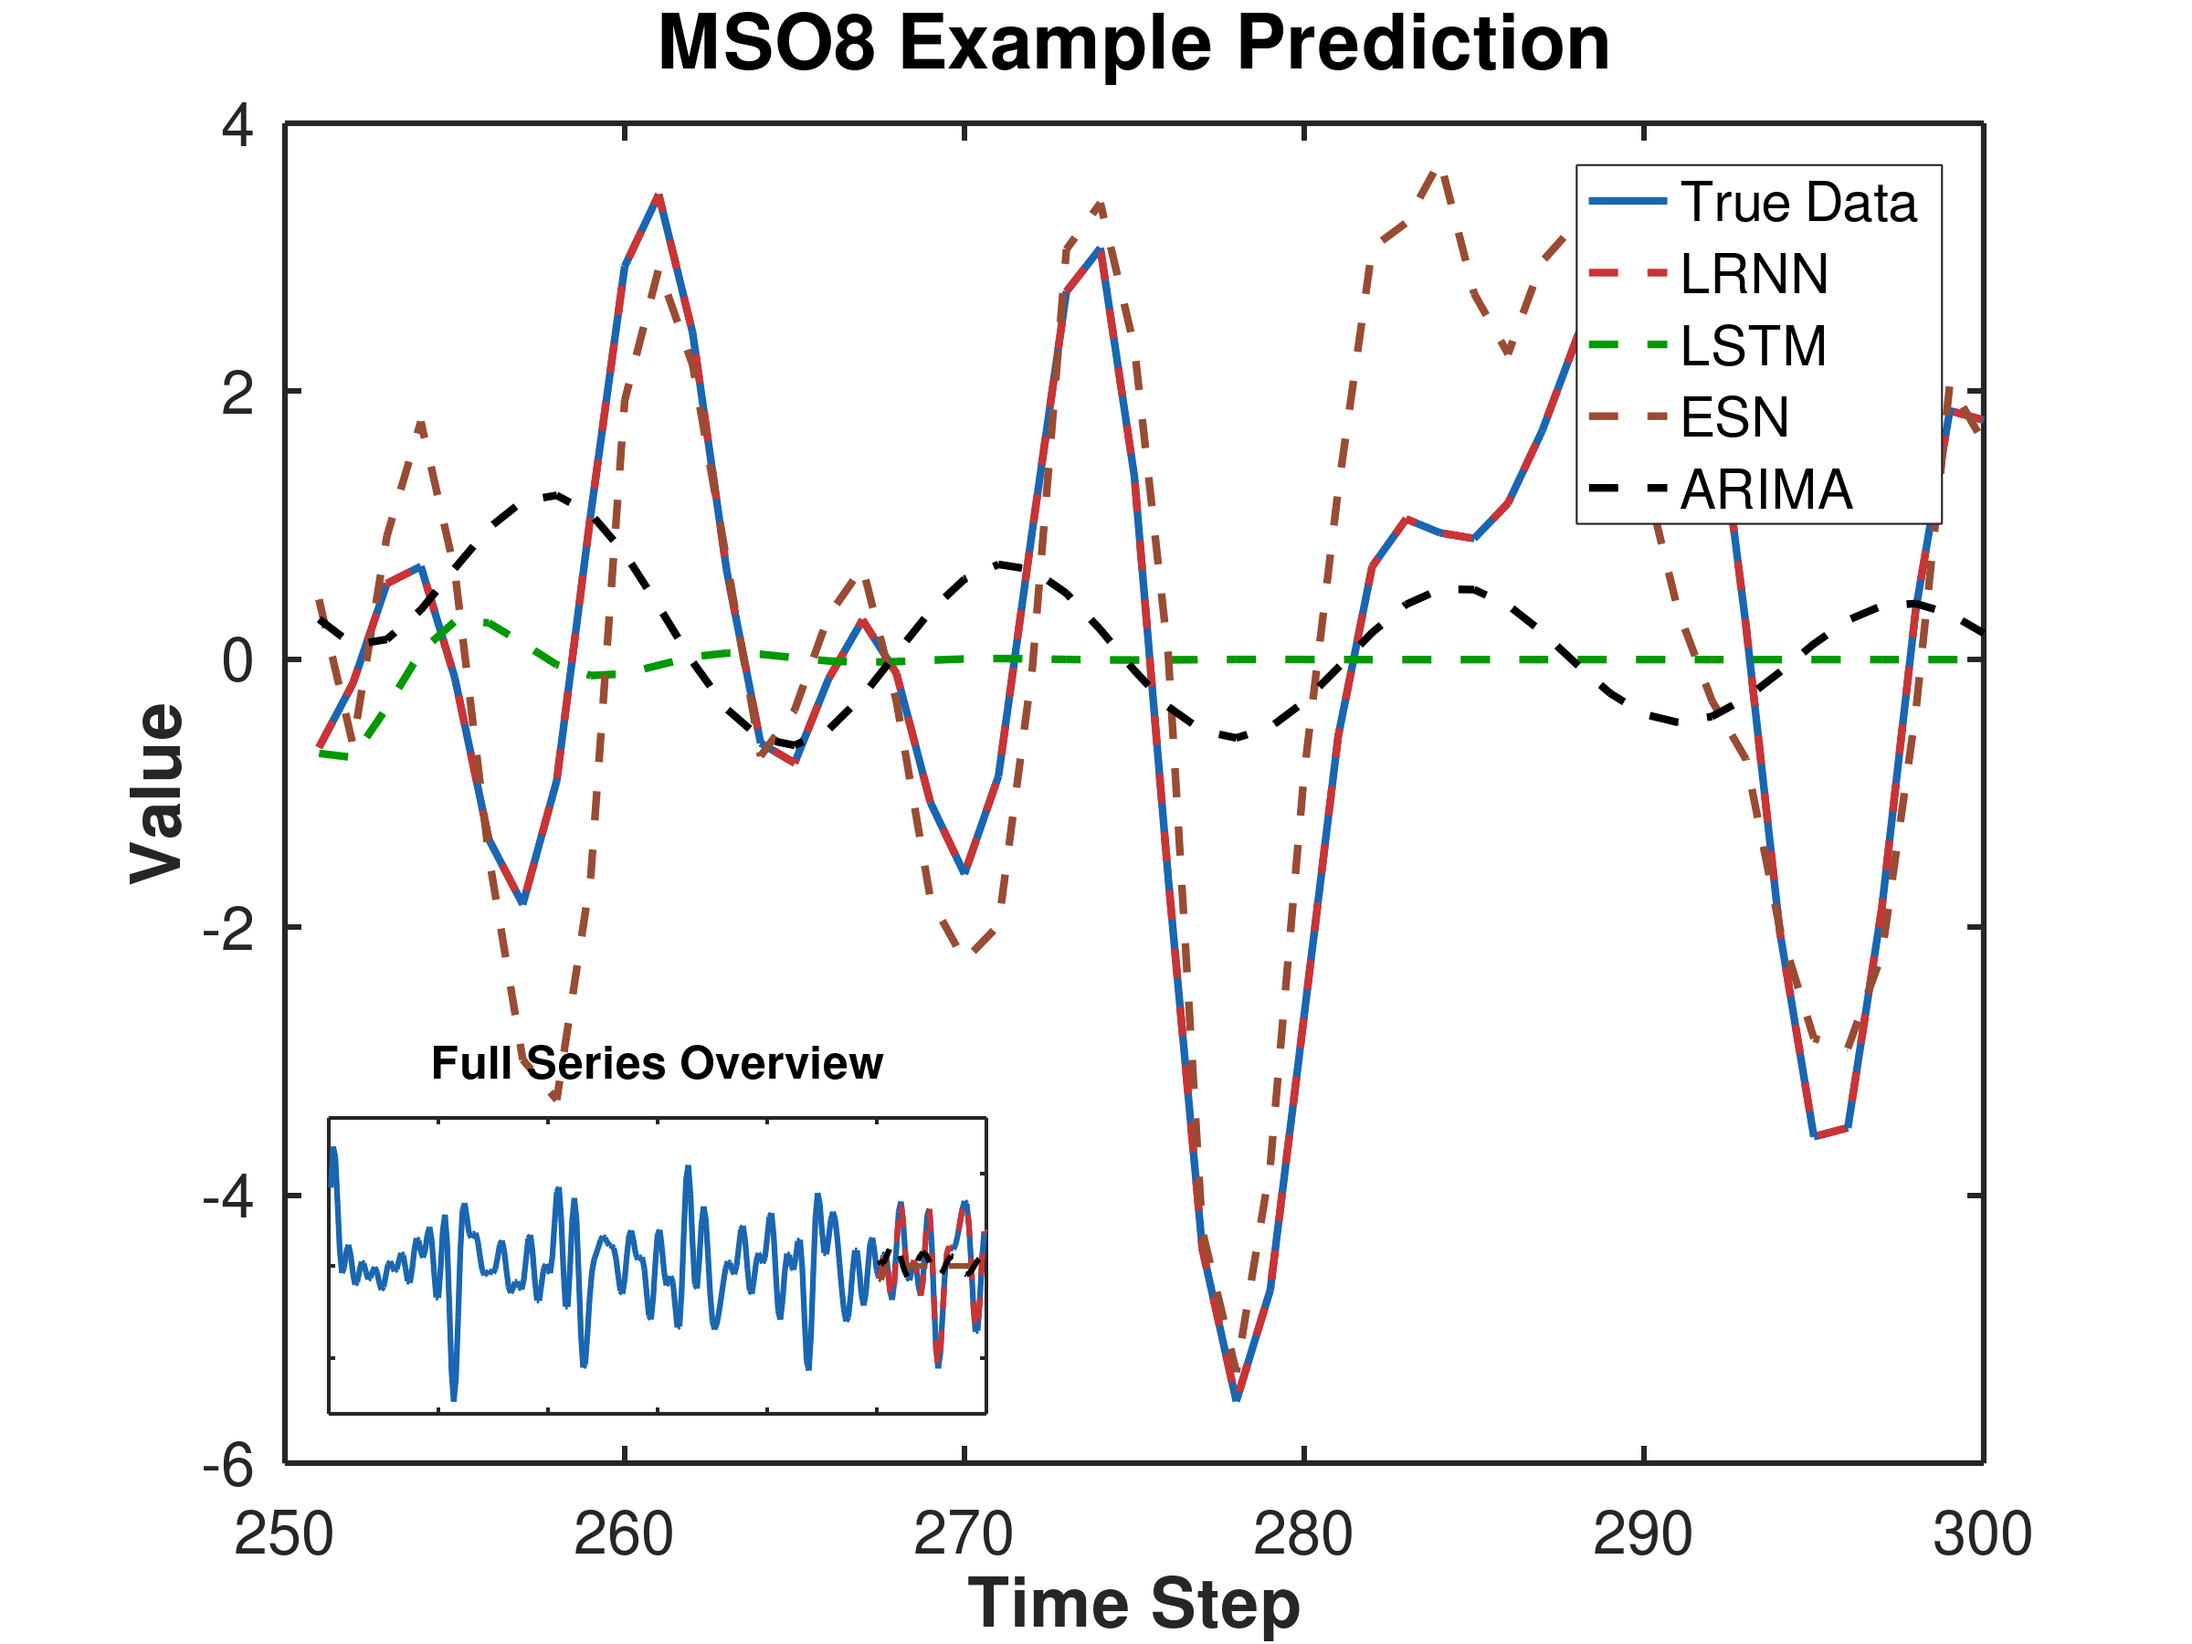
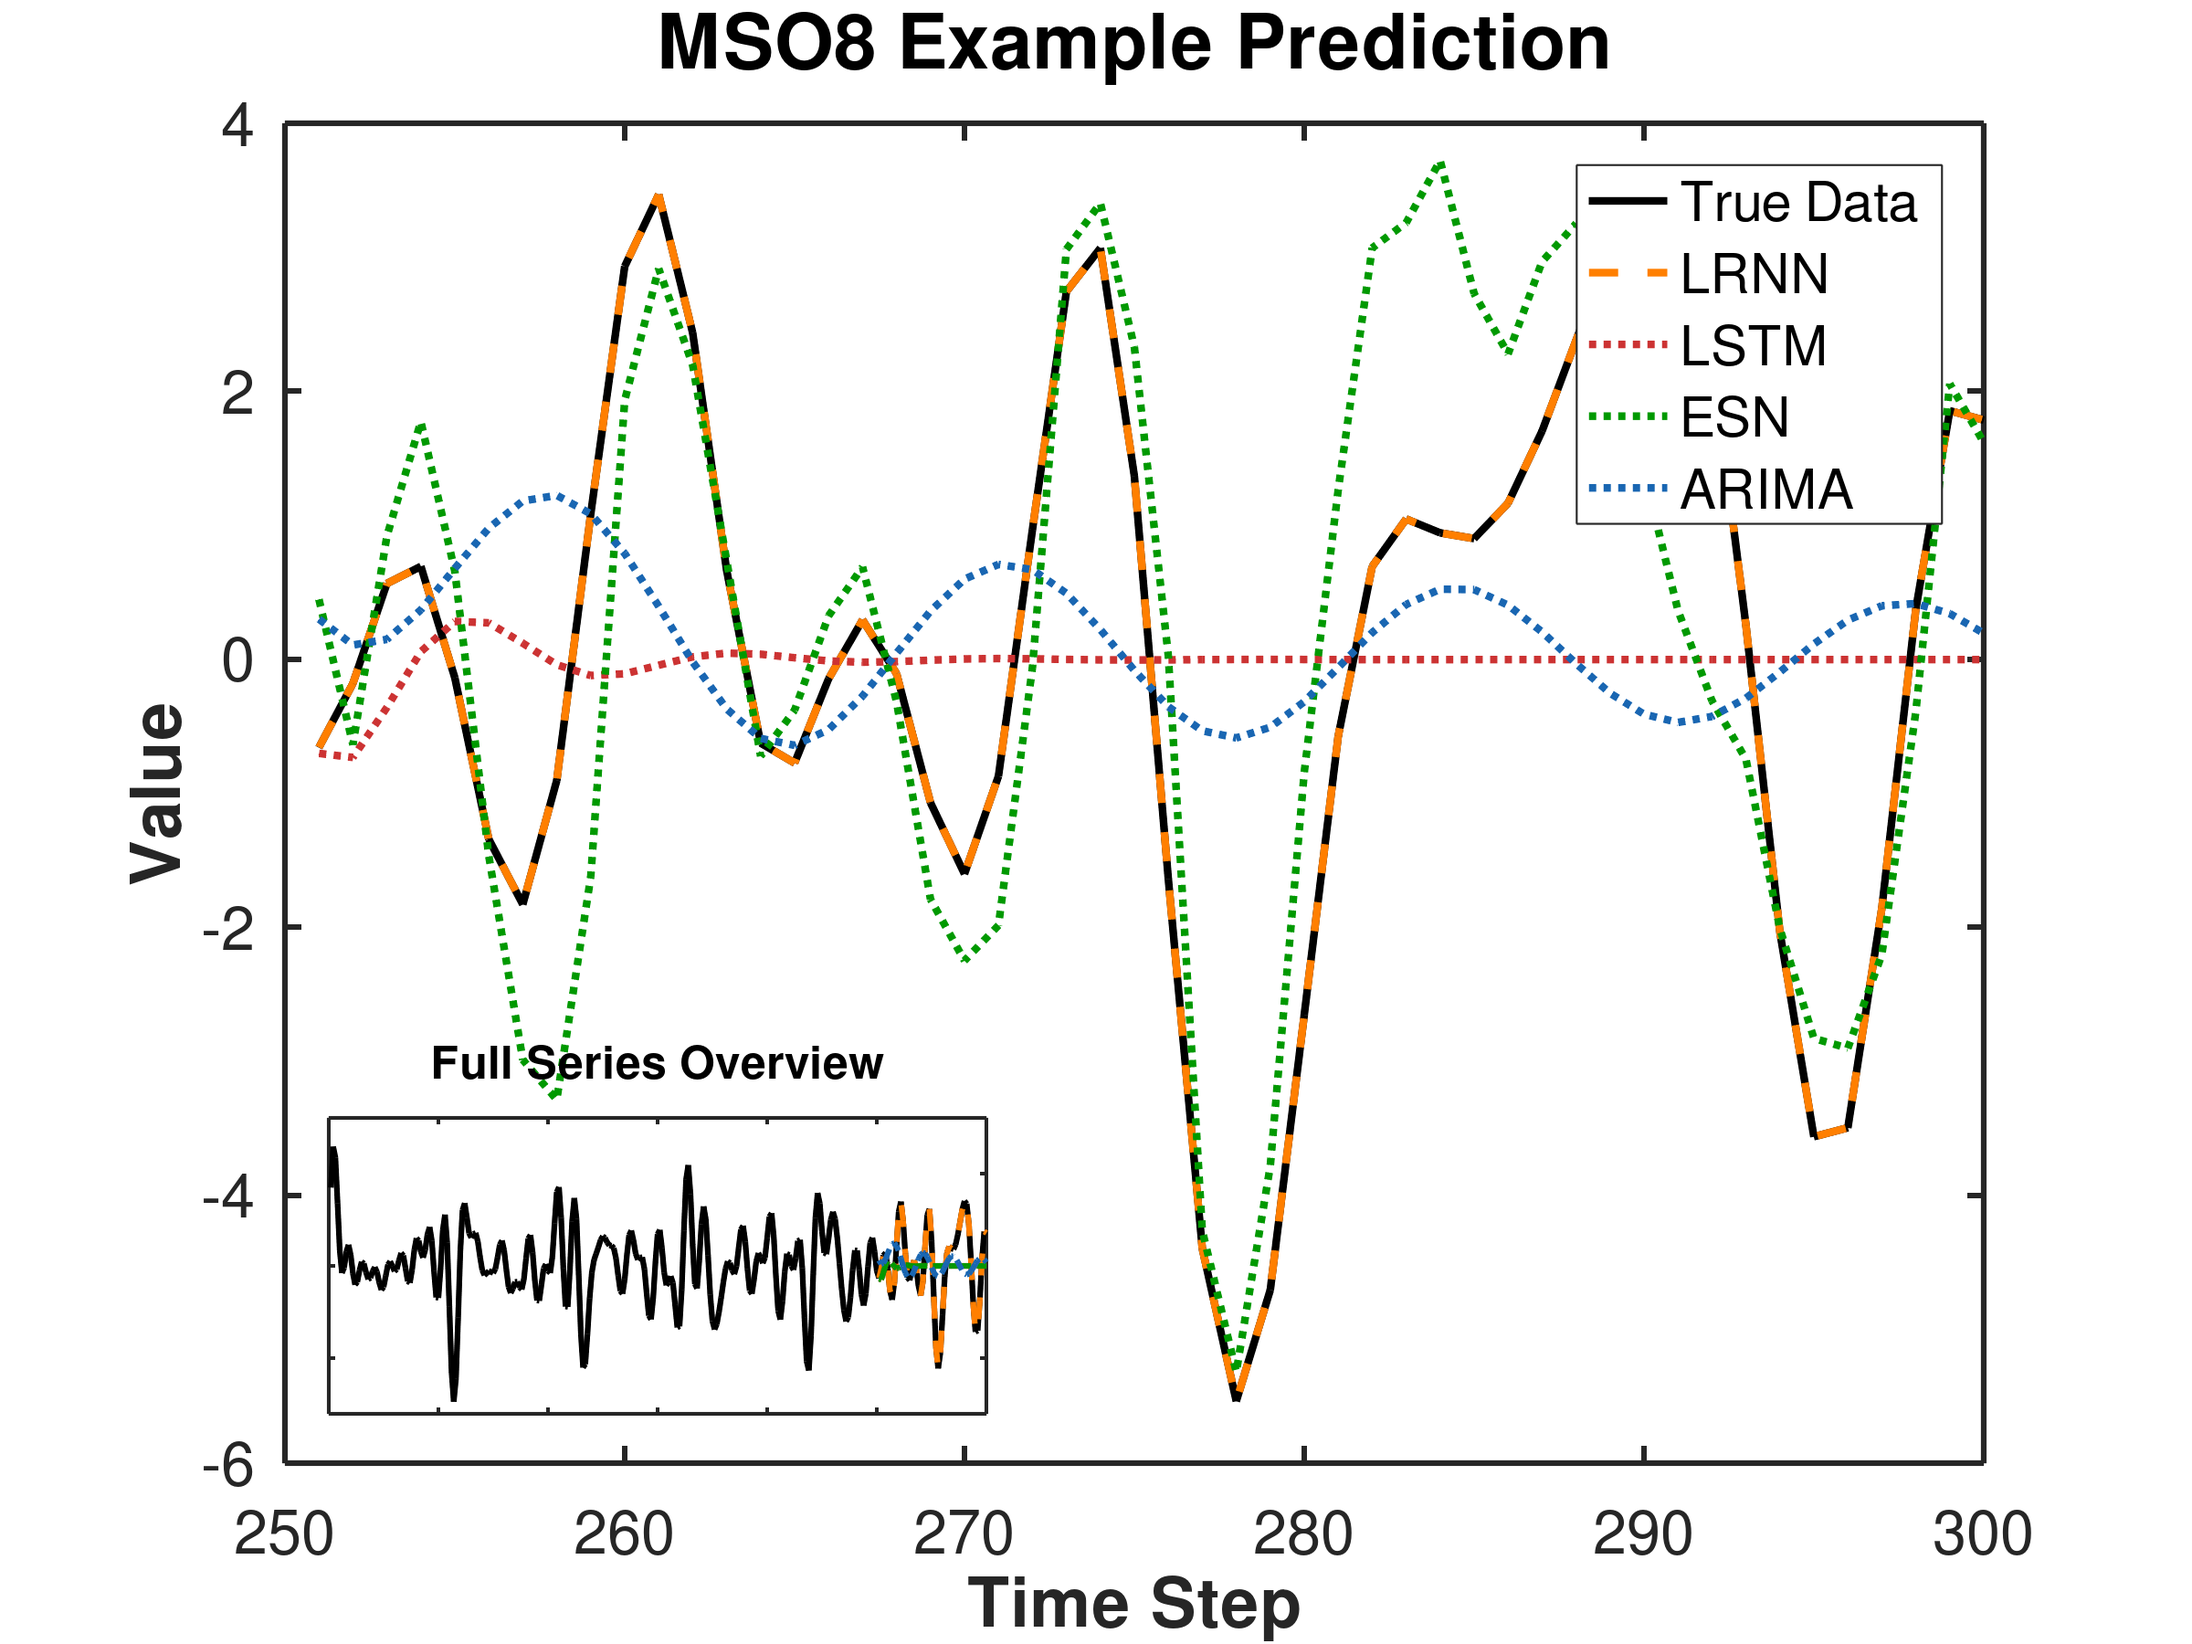
improved output

diff --git a/mso8/octave/plotmso8prediction.m b/mso8/octave/plotmso8prediction.m
@@ -1,6 +1,7 @@
 %% uncomment to load previously saved run of compute_prediction
 % load timeseries_prediction.mat
-
+load('mso8_prediction.mat')
+%
 % Combine the training and test data
 full_dat = [traindat(21,:), restdat(21,:)];
 
@@ -16,7 +17,7 @@ lstm = dlmread('../lstm/RESULTS-20230425/outputs-00.csv', ',', 1, 0);
 % Extract the first column from the daarimta_matrix
 lstm_column = lstm(:, 2);
 
-% read LSTM prediction using dlmread
+% read ESN prediction using dlmread
 esn = dlmread('../esn/esnresults00.csv', ',', 1, 0);
 
 % Extract the first column from the daarimta_matrix
@@ -27,11 +28,12 @@ esn_column = esn(:, 2);
 arima = dlmread('../arima/forecast_testing_s1.csv', ' ', 1, 0);
 arima = arima(1:50)
 
-cmap = [0.1 0.4 0.7; % Deep Blue
+cmap = [0.0 0.0 0.0; % Black
+        1.0 0.5 0.0; % Orange
         0.8 0.2 0.2; % Red
         0.0 0.6 0.0; % Green
-        0.6 0.3 0.2; % Brown
-        0.0 0.0 0.0]; % Black
+        0.1 0.4 0.7]; % Deep Blue
+        
 
 % Set up the figure and axis with a light gray background
 figure('Color', [0.9 0.9 0.9]);
@@ -48,13 +50,13 @@ plot(time_pred, full_dat(251:end), 'LineWidth', 2, 'Color', cmap(1,:), 'DisplayN
 plot(time_pred, Out(251:end), 'LineWidth', 2, 'Color', cmap(2,:), 'LineStyle', '--', 'DisplayName', 'LRNN');
 
 % lstm
-plot(time_pred, lstm_column, 'LineWidth', 2, 'Color', cmap(3,:), 'LineStyle', '--', 'DisplayName', 'LSTM');
+plot(time_pred, lstm_column, 'LineWidth', 2, 'Color', cmap(3,:), 'LineStyle', ':', 'DisplayName', 'LSTM');
 
 % esn
-plot(time_pred, esn_column, 'LineWidth', 2, 'Color', cmap(4,:), 'LineStyle', '--', 'DisplayName', 'ESN');
+plot(time_pred, esn_column, 'LineWidth', 2, 'Color', cmap(4,:), 'LineStyle', ':', 'DisplayName', 'ESN');
 
 % arima
-plot(time_pred, arima, 'LineWidth', 2, 'Color', cmap(5,:), 'LineStyle', '--', 'DisplayName', 'ARIMA');
+plot(time_pred, arima, 'LineWidth', 2, 'Color', cmap(5,:), 'LineStyle', ':', 'DisplayName', 'ARIMA');
 
 % Configure the main axis
 set(ax, 'FontSize', 16);
@@ -76,9 +78,9 @@ hold on;
 % Plot the full data in the inset
 plot(ax_inset, time_full, full_dat, 'LineWidth', 1.5, 'Color', cmap(1,:), 'DisplayName', 'True Data');
 plot(ax_inset, time_pred, Out(251:end), 'LineWidth', 1.5, 'Color', cmap(2,:), 'LineStyle', '--', 'DisplayName', 'LRNN');
-plot(ax_inset, time_pred, lstm_column, 'LineWidth', 1.5, 'Color', cmap(3,:), 'LineStyle', '--', 'DisplayName', 'LSTM');
-plot(ax_inset, time_pred, lstm_column, 'LineWidth', 1.5, 'Color', cmap(4,:), 'LineStyle', '--', 'DisplayName', 'ESN');
-plot(ax_inset, time_pred, arima, 'LineWidth', 1.5, 'Color', cmap(5,:), 'LineStyle', '--', 'DisplayName', 'ARIMA');
+plot(ax_inset, time_pred, lstm_column, 'LineWidth', 1.5, 'Color', cmap(3,:), 'LineStyle', '-.', 'DisplayName', 'LSTM');
+plot(ax_inset, time_pred, lstm_column, 'LineWidth', 1.5, 'Color', cmap(4,:), 'LineStyle', '-.', 'DisplayName', 'ESN');
+plot(ax_inset, time_pred, arima, 'LineWidth', 1.5, 'Color', cmap(5,:), 'LineStyle', '-.', 'DisplayName', 'ARIMA');
 
 % Configure the inset axis
 set(ax_inset, 'FontSize', 10);

diff --git a/mso8/octave/compute_prediction.m b/mso8/octave/compute_prediction.m
@@ -7,7 +7,7 @@ evallen = 50;
 testlen = 50;
 trials = 1;
 
-% read in stock data
+% read in mso8 data
 n = 20; % number of files
 [traindat,restdat,alpha] = read_in_data(trainlen,evallen+testlen);
 
@@ -69,3 +69,4 @@ for k=21:21
 #endfor
 
 endfor
+save('mso8_prediction.mat', 'traindat', 'restdat', 'Out')
